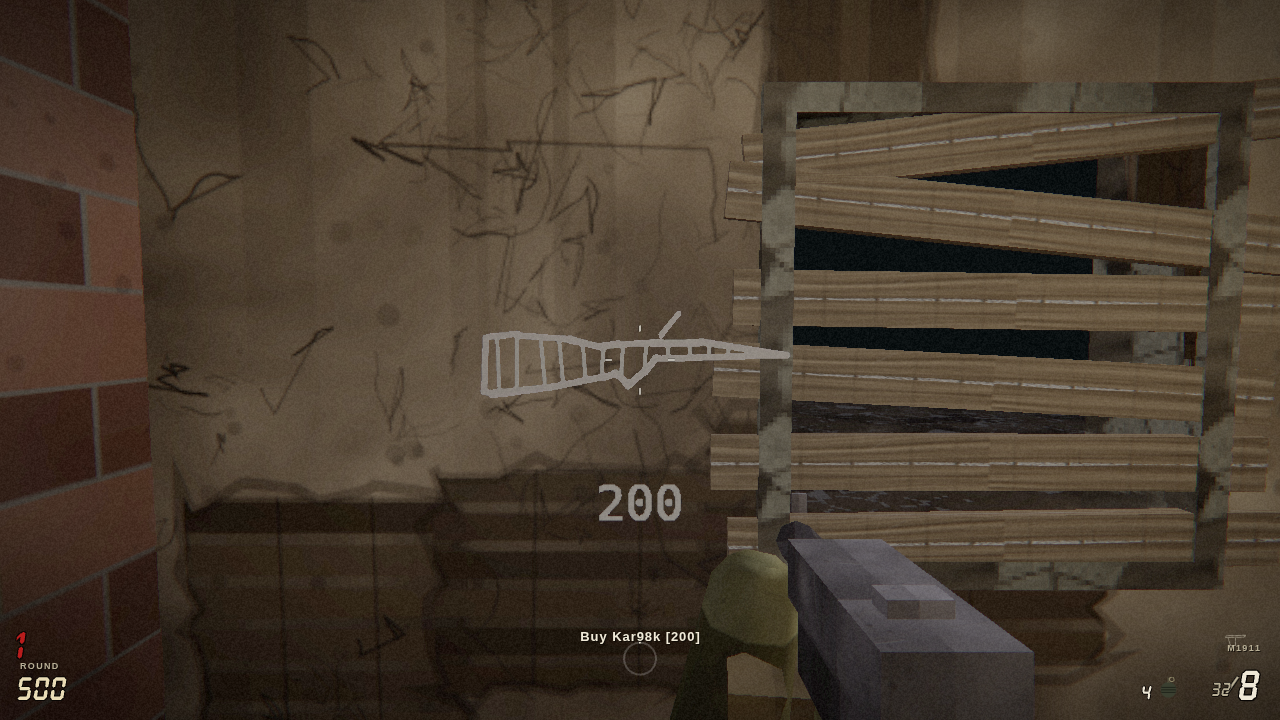
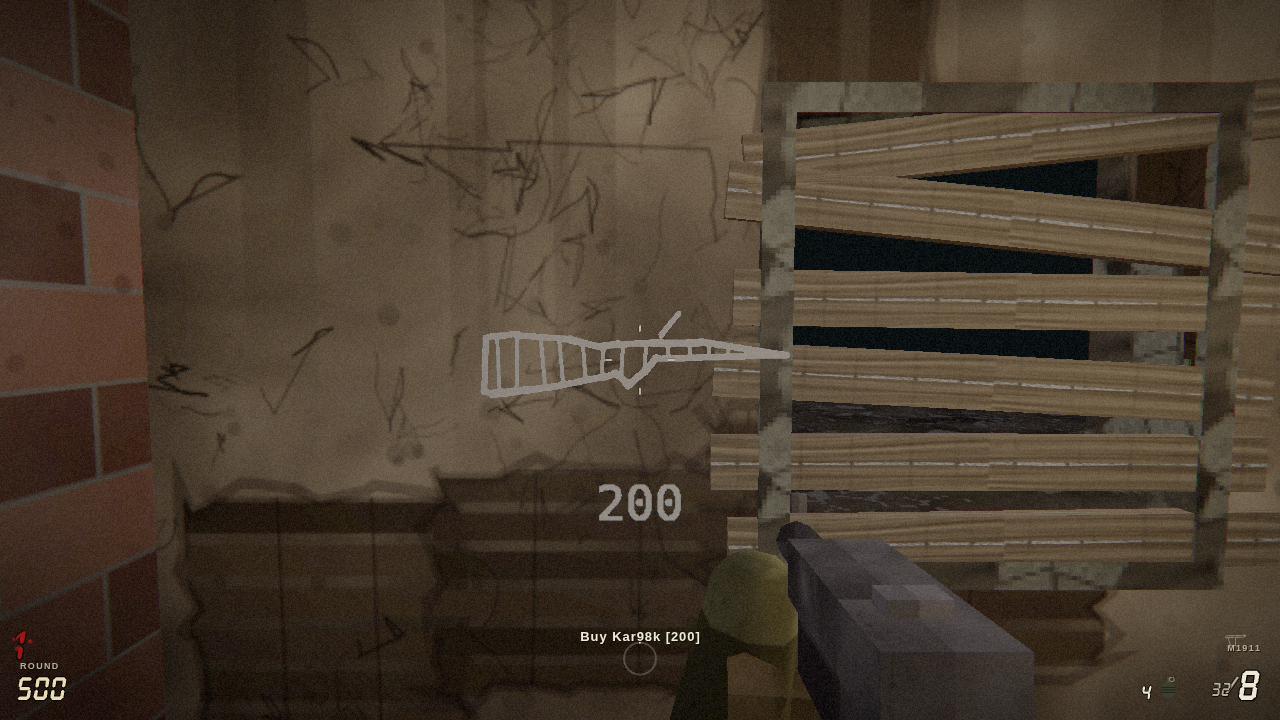
fix: halo every sconce, and give the shade a real silhouette
The halo filter in the light pass was end-anchored (`/_(bulb|sconce)$/`),
but sconces are named for the wall they sit on -- `hall_sconce_n`,
`help_sconce_w` -- so the test matched none of them and every sconce in
the map rendered without the warm bloom the pendant bulbs have. Match
anywhere instead.

The shade was also a single flat plate, which read as a third, smaller
window rather than a fixture. Replaced with a three-step taper so it
has a cone-ish silhouette under the level's axis-aligned brush budget.

Story: EPIC-001-S14

Claude-Session: https://claude.ai/code/session_01P2JyCRkCoPS6Ms7N71LdqN

Changed region(s): [[0.5938, 0.7333, 0.8125, 0.9167], [0.5625, 0.9167, 0.625, 0.9472], [0.0, 0.8861, 0.0312, 0.9167]]

diff --git a/nacht_der_untoten.artifact.html b/nacht_der_untoten.artifact.html
@@ -7831,7 +7831,7 @@ Z.assert = function (cond, msg) {
 }());
 
 
-/* ============================ 09_level.js (841 lines) ============================ */
+/* ============================ 09_level.js (848 lines) ============================ */
 // ---------------------------------------------------------------------------
 // 09_level.js — Nacht der Untoten.
 //
@@ -8507,10 +8507,17 @@ Z.assert = function (cond, msg) {
       // shade the fitting read as a bright dot rather than a lamp from across
       // the room, which was the whole point of putting it at eye height.
       const gx = x + n[0] * 0.19, gz = z + n[2] * 0.19;
-      box([gx - 0.062, y - 0.070, gz - 0.062], [gx + 0.062, y + 0.062, gz + 0.062],
+      box([gx - 0.055, y - 0.075, gz - 0.055], [gx + 0.055, y + 0.055, gz + 0.055],
         'bulb_glass', { uvScale: 1, solid: false });
-      box([gx - 0.105, y + 0.062, gz - 0.105], [gx + 0.105, y + 0.108, gz + 0.105],
-        'barrel_metal', { uvScale: 4, solid: false });
+      // Conical shade. A flat plate at window height, on the same wall plane
+      // and in the same rectangular proportion family as the boarding either
+      // side of it, reads as a third smaller window — the silhouette has to
+      // differ by shape, not just by being lit.
+      for (let i = 0; i < 3; i++) {
+        const r = 0.155 - i * 0.038, y0 = y + 0.055 + i * 0.032;
+        box([gx - r, y0, gz - r], [gx + r, y0 + 0.034, gz + r],
+          'barrel_metal', { uvScale: 3, solid: false });
+      }
       lights.push({ pos: [gx, y, gz], color: [1.00, 0.68, 0.31], radius: 7.6,
         intensity: 1.30, flicker: 0.30, name: name });
     }
@@ -17852,7 +17859,7 @@ Z.assert = function (cond, msg) {
 }());
 
 
-/* ============================ 22_game.js (742 lines) ============================ */
+/* ============================ 22_game.js (745 lines) ============================ */
 // ---------------------------------------------------------------------------
 // 22_game.js — state machine, fixed-timestep loop, render order, HUD feed.
 // ---------------------------------------------------------------------------
@@ -18409,7 +18416,10 @@ Z.assert = function (cond, msg) {
     Z.Render.beginQuads();
     let n = 0;
     for (const L of lv.lights) {
-      if (!/_(bulb|sconce)$/.test(L.name)) continue;
+      // Match anywhere, not at the end: the sconces are named for the wall
+      // they sit on (hall_sconce_n, help_sconce_w), so an end-anchored test
+      // matched none of them and every sconce in the map went un-haloed.
+      if (!/(_bulb$|sconce)/.test(L.name)) continue;
       // Ride the same flicker the light itself does, so the halo dims with it
       // instead of floating at a constant brightness over a guttering bulb.
       const f = L.flicker

diff --git a/nacht_der_untoten.html b/nacht_der_untoten.html
@@ -7838,7 +7838,7 @@ Z.assert = function (cond, msg) {
 }());
 
 
-/* ============================ 09_level.js (841 lines) ============================ */
+/* ============================ 09_level.js (848 lines) ============================ */
 // ---------------------------------------------------------------------------
 // 09_level.js — Nacht der Untoten.
 //
@@ -8514,10 +8514,17 @@ Z.assert = function (cond, msg) {
       // shade the fitting read as a bright dot rather than a lamp from across
       // the room, which was the whole point of putting it at eye height.
       const gx = x + n[0] * 0.19, gz = z + n[2] * 0.19;
-      box([gx - 0.062, y - 0.070, gz - 0.062], [gx + 0.062, y + 0.062, gz + 0.062],
+      box([gx - 0.055, y - 0.075, gz - 0.055], [gx + 0.055, y + 0.055, gz + 0.055],
         'bulb_glass', { uvScale: 1, solid: false });
-      box([gx - 0.105, y + 0.062, gz - 0.105], [gx + 0.105, y + 0.108, gz + 0.105],
-        'barrel_metal', { uvScale: 4, solid: false });
+      // Conical shade. A flat plate at window height, on the same wall plane
+      // and in the same rectangular proportion family as the boarding either
+      // side of it, reads as a third smaller window — the silhouette has to
+      // differ by shape, not just by being lit.
+      for (let i = 0; i < 3; i++) {
+        const r = 0.155 - i * 0.038, y0 = y + 0.055 + i * 0.032;
+        box([gx - r, y0, gz - r], [gx + r, y0 + 0.034, gz + r],
+          'barrel_metal', { uvScale: 3, solid: false });
+      }
       lights.push({ pos: [gx, y, gz], color: [1.00, 0.68, 0.31], radius: 7.6,
         intensity: 1.30, flicker: 0.30, name: name });
     }
@@ -17859,7 +17866,7 @@ Z.assert = function (cond, msg) {
 }());
 
 
-/* ============================ 22_game.js (742 lines) ============================ */
+/* ============================ 22_game.js (745 lines) ============================ */
 // ---------------------------------------------------------------------------
 // 22_game.js — state machine, fixed-timestep loop, render order, HUD feed.
 // ---------------------------------------------------------------------------
@@ -18416,7 +18423,10 @@ Z.assert = function (cond, msg) {
     Z.Render.beginQuads();
     let n = 0;
     for (const L of lv.lights) {
-      if (!/_(bulb|sconce)$/.test(L.name)) continue;
+      // Match anywhere, not at the end: the sconces are named for the wall
+      // they sit on (hall_sconce_n, help_sconce_w), so an end-anchored test
+      // matched none of them and every sconce in the map went un-haloed.
+      if (!/(_bulb$|sconce)/.test(L.name)) continue;
       // Ride the same flicker the light itself does, so the halo dims with it
       // instead of floating at a constant brightness over a guttering bulb.
       const f = L.flicker

diff --git a/src/game/09_level.js b/src/game/09_level.js
@@ -673,10 +673,17 @@
       // shade the fitting read as a bright dot rather than a lamp from across
       // the room, which was the whole point of putting it at eye height.
       const gx = x + n[0] * 0.19, gz = z + n[2] * 0.19;
-      box([gx - 0.062, y - 0.070, gz - 0.062], [gx + 0.062, y + 0.062, gz + 0.062],
+      box([gx - 0.055, y - 0.075, gz - 0.055], [gx + 0.055, y + 0.055, gz + 0.055],
         'bulb_glass', { uvScale: 1, solid: false });
-      box([gx - 0.105, y + 0.062, gz - 0.105], [gx + 0.105, y + 0.108, gz + 0.105],
-        'barrel_metal', { uvScale: 4, solid: false });
+      // Conical shade. A flat plate at window height, on the same wall plane
+      // and in the same rectangular proportion family as the boarding either
+      // side of it, reads as a third smaller window — the silhouette has to
+      // differ by shape, not just by being lit.
+      for (let i = 0; i < 3; i++) {
+        const r = 0.155 - i * 0.038, y0 = y + 0.055 + i * 0.032;
+        box([gx - r, y0, gz - r], [gx + r, y0 + 0.034, gz + r],
+          'barrel_metal', { uvScale: 3, solid: false });
+      }
       lights.push({ pos: [gx, y, gz], color: [1.00, 0.68, 0.31], radius: 7.6,
         intensity: 1.30, flicker: 0.30, name: name });
     }

diff --git a/src/game/22_game.js b/src/game/22_game.js
@@ -554,7 +554,10 @@
     Z.Render.beginQuads();
     let n = 0;
     for (const L of lv.lights) {
-      if (!/_(bulb|sconce)$/.test(L.name)) continue;
+      // Match anywhere, not at the end: the sconces are named for the wall
+      // they sit on (hall_sconce_n, help_sconce_w), so an end-anchored test
+      // matched none of them and every sconce in the map went un-haloed.
+      if (!/(_bulb$|sconce)/.test(L.name)) continue;
       // Ride the same flicker the light itself does, so the halo dims with it
       // instead of floating at a constant brightness over a guttering bulb.
       const f = L.flicker
